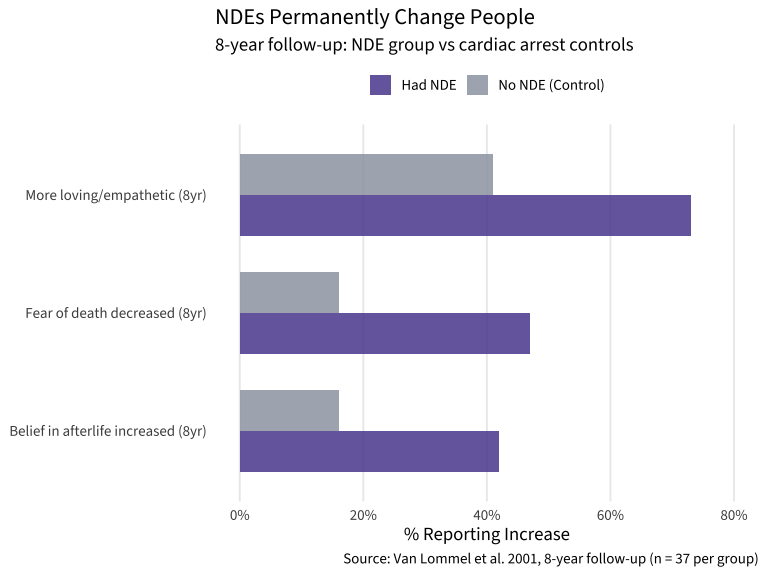
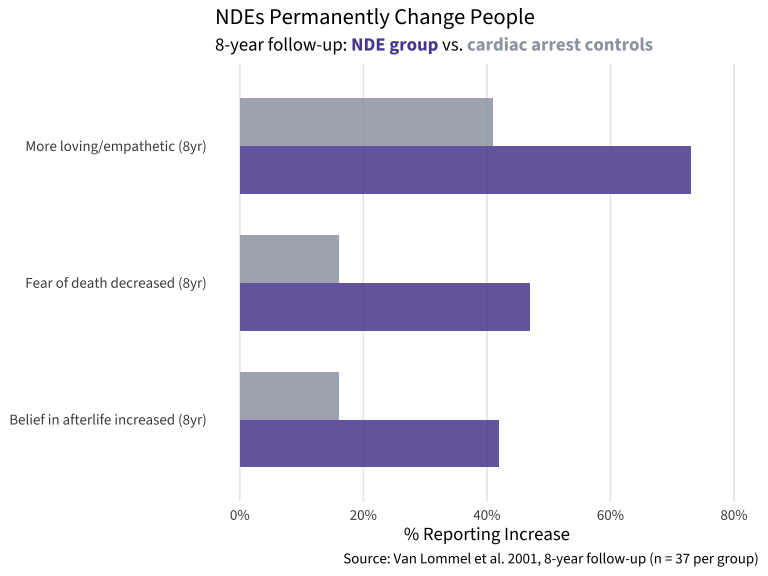
Viz C: use colored subtitle as legend instead of clipped annotations

diff --git a/other/near_death_experiences/README.md b/other/near_death_experiences/README.md
@@ -668,7 +668,7 @@ ggplot(life_data, aes(x = value, y = fct_reorder(feature, value, .fun = max),
   scale_x_continuous(labels = percent_format(scale = 1), limits = c(0, 80)) +
   labs(
     title = "NDEs Permanently Change People",
-    subtitle = "8-year follow-up: NDE group vs cardiac arrest controls",
+    subtitle = "8-year follow-up: <span style='color:#5B4A9E;'>**NDE group**</span> vs. <span style='color:#9CA3AF;'>**cardiac arrest controls**</span>",
     x = "% Reporting Increase",
     y = NULL,
     fill = NULL,
@@ -677,7 +677,8 @@ ggplot(life_data, aes(x = value, y = fct_reorder(feature, value, .fun = max),
   theme(
     panel.grid.major.y = element_blank(),
     panel.grid.minor = element_blank(),
-    legend.position = "top"
+    legend.position = "none",
+    plot.subtitle = element_markdown()
   )
 ```
 
@@ -943,21 +944,21 @@ sessionInfo()
     ## [1] stats     graphics  grDevices utils     datasets  methods   base     
     ## 
     ## other attached packages:
-    ##  [1] jsonlite_2.0.0  httr2_1.2.2     showtext_0.9-8  showtextdb_3.0 
-    ##  [5] sysfonts_0.8.9  ggtext_0.1.2    scales_1.4.0    lubridate_1.9.5
-    ##  [9] forcats_1.0.1   stringr_1.6.0   dplyr_1.2.1     purrr_1.2.2    
-    ## [13] readr_2.2.0     tidyr_1.3.2     tibble_3.3.1    ggplot2_4.0.3  
-    ## [17] tidyverse_2.0.0 rmarkdown_2.31 
+    ##  [1] showtext_0.9-8  showtextdb_3.0  sysfonts_0.8.9  ggtext_0.1.2   
+    ##  [5] scales_1.4.0    lubridate_1.9.5 forcats_1.0.1   stringr_1.6.0  
+    ##  [9] dplyr_1.2.1     purrr_1.2.2     readr_2.2.0     tidyr_1.3.2    
+    ## [13] tibble_3.3.1    ggplot2_4.0.3   tidyverse_2.0.0 rmarkdown_2.31 
     ## 
     ## loaded via a namespace (and not attached):
-    ##  [1] rappdirs_0.3.4     generics_0.1.4     xml2_1.5.2         stringi_1.8.7     
-    ##  [5] hms_1.1.4          digest_0.6.39      magrittr_2.0.5     evaluate_1.0.5    
-    ##  [9] grid_4.6.0         timechange_0.4.0   RColorBrewer_1.1-3 fastmap_1.2.0     
-    ## [13] codetools_0.2-20   cli_3.6.6          crayon_1.5.3       rlang_1.2.0       
-    ## [17] bit64_4.8.2        withr_3.0.2        yaml_2.3.12        otel_0.2.0        
-    ## [21] parallel_4.6.0     tools_4.6.0        tzdb_0.5.0         curl_7.1.0        
-    ## [25] vctrs_0.7.3        R6_2.6.1           lifecycle_1.0.5    bit_4.6.0         
-    ## [29] vroom_1.7.1        pkgconfig_2.0.3    pillar_1.11.1      gtable_0.3.6      
-    ## [33] glue_1.8.1         Rcpp_1.1.1-1.1     xfun_0.58          tidyselect_1.2.1  
-    ## [37] knitr_1.51         farver_2.1.2       htmltools_0.5.9    labeling_0.4.3    
-    ## [41] compiler_4.6.0     S7_0.2.2           gridtext_0.1.6
+    ##  [1] generics_0.1.4     xml2_1.5.2         stringi_1.8.7      hms_1.1.4         
+    ##  [5] digest_0.6.39      magrittr_2.0.5     evaluate_1.0.5     grid_4.6.0        
+    ##  [9] timechange_0.4.0   RColorBrewer_1.1-3 fastmap_1.2.0      jsonlite_2.0.0    
+    ## [13] cli_3.6.6          crayon_1.5.3       rlang_1.2.0        litedown_0.9      
+    ## [17] bit64_4.8.2        commonmark_2.0.0   withr_3.0.2        yaml_2.3.12       
+    ## [21] otel_0.2.0         parallel_4.6.0     tools_4.6.0        tzdb_0.5.0        
+    ## [25] curl_7.1.0         vctrs_0.7.3        R6_2.6.1           lifecycle_1.0.5   
+    ## [29] bit_4.6.0          vroom_1.7.1        pkgconfig_2.0.3    pillar_1.11.1     
+    ## [33] gtable_0.3.6       glue_1.8.1         Rcpp_1.1.1-1.1     xfun_0.58         
+    ## [37] tidyselect_1.2.1   knitr_1.51         farver_2.1.2       htmltools_0.5.9   
+    ## [41] labeling_0.4.3     compiler_4.6.0     S7_0.2.2           markdown_2.0      
+    ## [45] gridtext_0.1.6
